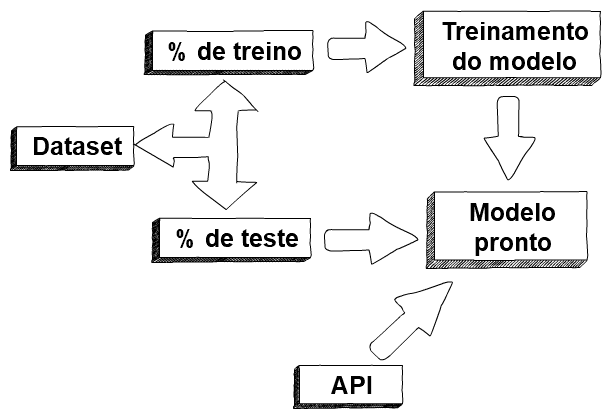
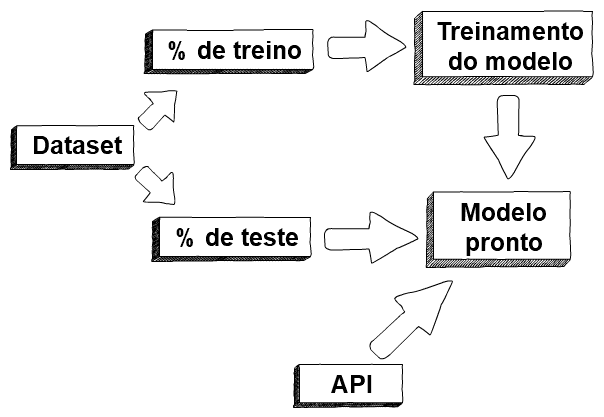
update draft

diff --git a/_drafts/2020-02-02-api_modelos_machine_learning.md b/_drafts/2020-02-02-api_modelos_machine_learning.md
@@ -8,7 +8,7 @@ O objetivo deste post é mostrar com detalhes um dos métodos que pode ser utili
 
 ## Introdução
 
-### Etapas de construção do modelo
+### Etapas de construção
 
 A primeira coisa que temos que ter como objetivo é o modelo treinado, gravado de tal modo que possamos utilizar à qualquer momento. Tendo isso em mente podemos enumerar alguns passos que terão que ser cumpridos:
 
@@ -20,15 +20,7 @@ A primeira coisa que temos que ter como objetivo é o modelo treinado, gravado d
 
 ![Diagrama da ideia geral](/images/2020-02-02-api_modelos_machine_learning/diagrama_geral.png)
 
-### Obter a base de dados Pima
-
-Pima Indians Diabetes Database, é um dataset contendo informações de pacientes do sexo feminino acima de 21 anos.
-
-O dataset pode ser encontrado no site do [Kaggle](https://www.kaggle.com/uciml/pima-indians-diabetes-database) ou baixado [aqui](https://gist.github.com/jhisse/ee5d2bfbd2567caece32aaad9e867e5b).
-
-Esse conjunto de dados irá nos permitir construirmos um modelo de machine learning que tentará prever da maneira mais acurada se um paciente tem diabete ou não.
-
-### Análise dos dados
+### Preparando nosso ambiente de desenvolvimento
 
 #### Bibliotecas necessárias
 
@@ -39,17 +31,17 @@ Serão necessárias as seguintes bibliotecas para a construção do modelo:
 - [scikit-learn](https://scikit-learn.org/stable/)
 - [pickle](https://docs.python.org/3/library/pickle.html)
 
-#### Preparando nosso ambiente de desenvolvimento
+#### Executando o notebook jupyter
 
-Para que nosso ambiente de desenvolvimento seja comum em diversas arquiteturas de sistemas operacionais,iremos utilizar uma imagem Docker já contendo as bibliotecas necessárias, inclusive com um notebook jupyter. A imagem é a [jupyter/scipy-notebook](https://hub.docker.com/r/jupyter/scipy-notebook), mais detalhes sobre esta imagem pode ser obtida no seguinte [link](https://jupyter-docker-stacks.readthedocs.io/en/latest/index.html).
-
-Caso não tenha o Docker instalado, pode acessar esse [link](https://docs.docker.com/install/) e seguir as instruções de instalação.
+Para que nosso ambiente de desenvolvimento seja comum em diversas arquiteturas de sistemas operacionais, iremos utilizar uma imagem Docker já contendo as bibliotecas necessárias, inclusive com o jupyter. A imagem docker a ser utilizada é a [jupyter/scipy-notebook](https://hub.docker.com/r/jupyter/scipy-notebook). Mais detalhes sobre esta imagem pode ser obtidos no seguinte [link](https://jupyter-docker-stacks.readthedocs.io/en/latest/index.html).
 
 Para ter certeza que o docker está instalado, execute o seguinte comando no terminal:
 
 ```bash
 docker --version
 ```
+
+Caso não tenha o Docker instalado pode acessar esse [link](https://docs.docker.com/install/) e seguir as instruções de instalação.
 
 Agora precisamos executar a imagem para acessarmos o notebook jupyter já com todas as bibliotecas instaladas.
 
@@ -69,17 +61,23 @@ Vamos entender o comando acima:
 
 ![Docker start notebook](/images/2020-02-02-api_modelos_machine_learning/docker_start_notebook.png)
 
-#### Iniciando nosso notebook
-
-Agora podemos abrir o navegador no endereço <http://localhost:8080> para acessarmos o notebook jupyter.
+Vamos abrir o navegador no endereço <http://localhost:8080> para acessarmos o notebook jupyter.
 
 ![Jupyter Home](/images/2020-02-02-api_modelos_machine_learning/jupyter_home.png)
 
-Vamos seguir alguns passos, vamos entrar na pasta work [1] e criar um novo notebook [2].
+Agora vamos entrar na pasta work [1] e criar um novo notebook [2].
 
 ![Work folder and create notebook](/images/2020-02-02-api_modelos_machine_learning/jupyter_create_notebook.png)
 
-Em uma nova célula do notebook vamos executar o seguinte comando para baixar a base de dados do PIMA para nosso workspace:
+### Obter a base de dados Pima
+
+Pima Indians Diabetes Database, é um dataset contendo informações de pacientes do sexo feminino acima de 21 anos.
+
+O dataset pode ser encontrado no site do [Kaggle](https://www.kaggle.com/uciml/pima-indians-diabetes-database) ou baixado [aqui](https://gist.github.com/jhisse/ee5d2bfbd2567caece32aaad9e867e5b).
+
+Esse conjunto de dados irá nos permitir construirmos um modelo de machine learning que tentará prever da maneira mais acurada se um paciente tem diabete ou não.
+
+Em uma nova célula do notebook vamos executar o seguinte comando para fazer o download da base de dados do PIMA para nosso workspace:
 
 ```bash
 !wget https://gist.githubusercontent.com/jhisse/ee5d2bfbd2567caece32aaad9e867e5b/raw/pima.csv
@@ -87,7 +85,9 @@ Em uma nova célula do notebook vamos executar o seguinte comando para baixar a 
 
 O sinal de exclamação no início da execução do wget indica que o comando que vem a seguir deve ser executado como se estivesse em um terminal e não como um código Python.
 
-![Download PIMa database](/images/2020-02-02-api_modelos_machine_learning/download_pima_database.png)
+![Download Pima database](/images/2020-02-02-api_modelos_machine_learning/download_pima_database.png)
+
+### Análise dos dados
 
 Lendo o dataset e entendendo os dados:
 
@@ -116,6 +116,19 @@ Vamos entender o que cada variável significa:
 - **DiabetesPedigreeFunction**: Função que retorna um score com base no histórico familiar;
 - **Age**: Idade (anos);
 - **Outcome**: Indicativo se a pessoa é diabética (1/0).
+
+Vamos separar o dataset em dois conjuntos de dados, o primeiro conjunto deverá ter 70% da base, ele será usado para o treinamento de nosso modelo, os outros 30% do dataset será usado para testes.
+
+```python
+from sklearn.model_selection import train_test_split
+
+independent_variables = ['Pregnancies','Glucose','BloodPressure','SkinThickness','Insulin','BMI','DiabetesPedigreeFunction','Age','Outcome']
+
+x = pima_dataset[independent_variables]
+y = pima_dataset['Outcome']
+
+x_train, x_test, y_train, y_test = train_test_split(x, y, test_size=0.3, random_state=1)
+```
 
 ### Serialização com Pickle
 
